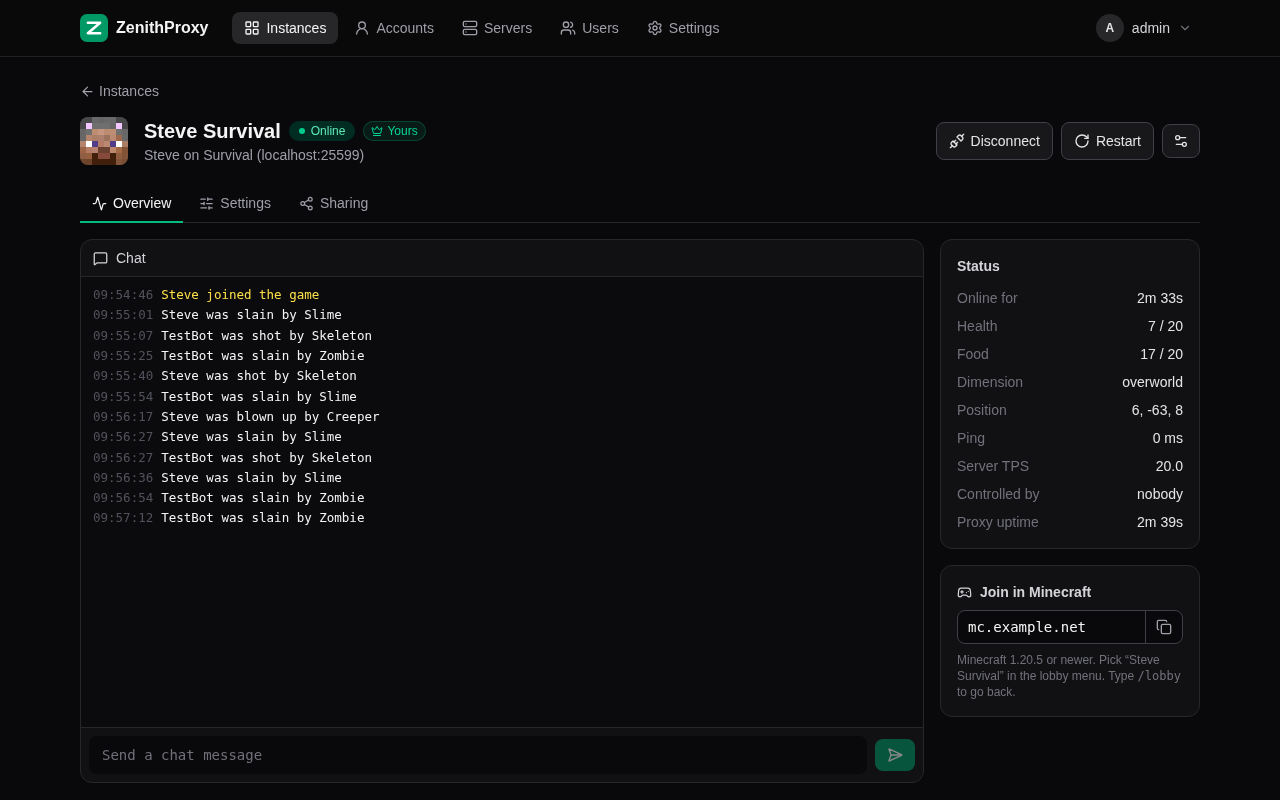
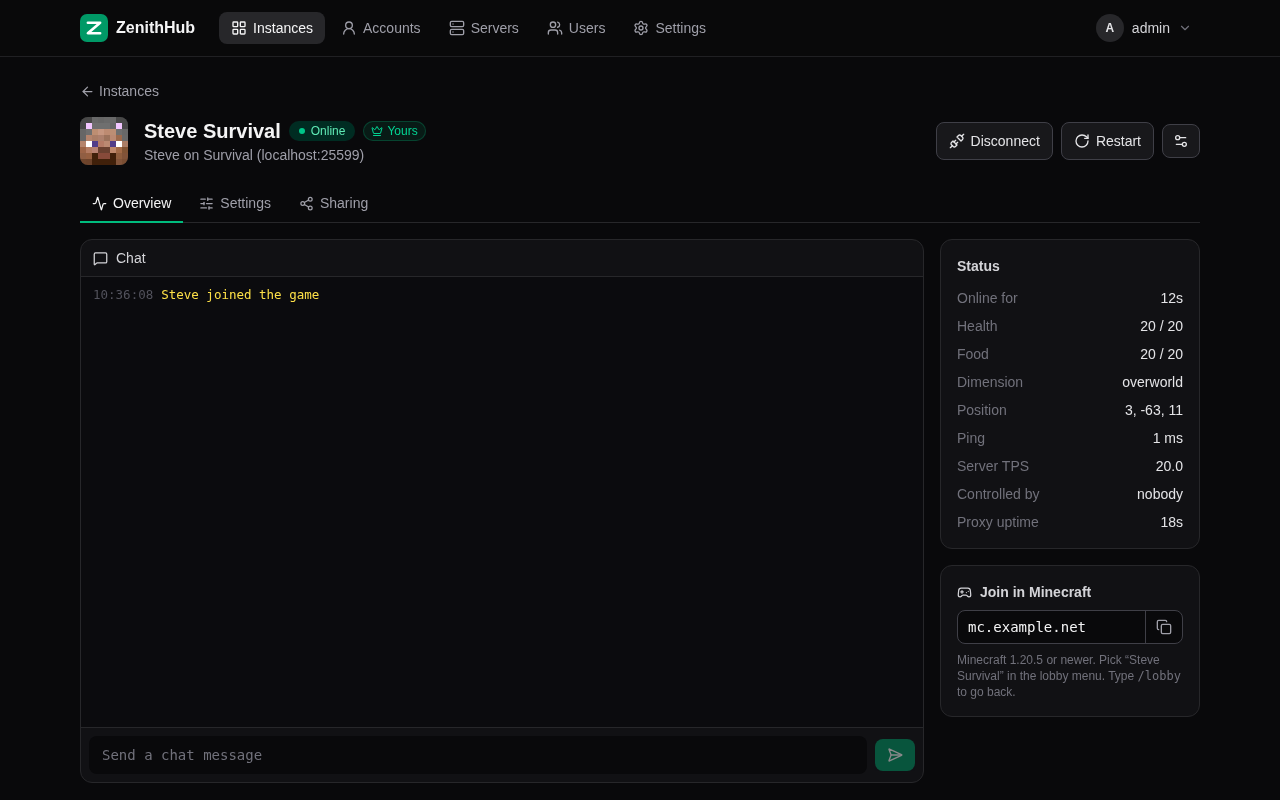
Rename the project to ZenithHub
Everything users see now says ZenithHub: the web UI, the lobby, the
Discord bot, the docs and the image (ghcr.io/jkramer5103/zenithhub).
The bot it runs is still ZenithProxy, and the code keeps the com.zenith
packages and ZENITH_* env vars so upstream merges stay easy.

Changed region(s): [[0.0625, 0.375, 0.2812, 0.6562], [0.125, 0.0, 0.5625, 0.0625], [0.875, 0.5, 0.9375, 0.5312]]

diff --git a/web/src/routes/+layout.svelte b/web/src/routes/+layout.svelte
@@ -49,7 +49,7 @@
 
 {#if loadError}
 	<div class="flex min-h-dvh items-center justify-center p-6 text-center text-sm text-zinc-400">
-		Can't reach the ZenithProxy manager: {loadError}
+		Can't reach ZenithHub: {loadError}
 	</div>
 {:else if !app.session}
 	<div class="min-h-dvh"></div>
@@ -59,7 +59,7 @@
 	<div class="flex min-h-dvh flex-col pb-[calc(4rem+env(safe-area-inset-bottom))] md:pb-0">
 		<header class="sticky top-0 z-30 border-b border-zinc-800/80 bg-zinc-950/85 backdrop-blur">
 			<div class="mx-auto flex h-14 max-w-6xl items-center gap-6 px-4">
-				<a href="/" class="flex items-center gap-2 font-semibold"><Logo /> ZenithProxy</a>
+				<a href="/" class="flex items-center gap-2 font-semibold"><Logo /> ZenithHub</a>
 				<nav class="hidden items-center gap-1 md:flex">
 					{#each nav as item}
 						<a

diff --git a/web/src/lib/components/DiscordLinkModal.svelte b/web/src/lib/components/DiscordLinkModal.svelte
@@ -57,7 +57,7 @@
 		<ol class="mt-4 space-y-3 text-sm">
 			<li class="flex gap-3">
 				<span class="flex size-6 shrink-0 items-center justify-center rounded-full bg-zinc-800 text-xs font-semibold">1</span>
-				<span class="pt-0.5 text-zinc-300">Open the Discord server the ZenithProxy bot is in.</span>
+				<span class="pt-0.5 text-zinc-300">Open the Discord server the ZenithHub bot is in.</span>
 			</li>
 			<li class="flex gap-3">
 				<span class="flex size-6 shrink-0 items-center justify-center rounded-full bg-zinc-800 text-xs font-semibold">2</span>

diff --git a/web/src/lib/components/settings/SettingRow.svelte b/web/src/lib/components/settings/SettingRow.svelte
@@ -160,7 +160,7 @@
 			{/if}
 		</div>
 		{#if forced}
-			<p class="mt-0.5 flex items-center gap-1 text-xs text-zinc-500"><Lock size={11} /> Managed by ZenithProxy</p>
+			<p class="mt-0.5 flex items-center gap-1 text-xs text-zinc-500"><Lock size={11} /> Managed by ZenithHub</p>
 		{:else if field.help || inheritedFrom}
 			<p class="mt-0.5 text-xs text-zinc-500">
 				<Highlight text={field.help ?? ''} {query} />{field.help && inheritedFrom ? ' · ' : ''}{inheritedFrom}

diff --git a/web/src/lib/components/settings/SettingsEditor.svelte b/web/src/lib/components/settings/SettingsEditor.svelte
@@ -211,7 +211,7 @@
 				{#if toggleForced}
 					<p class="mt-1 flex items-center gap-1 text-xs text-zinc-500">
 						<Lock size={11} />
-						{section.toggle === 'client.connectionProxy.enabled' ? 'Outbound proxies are turned off in the manager settings.' : 'Managed by ZenithProxy'}
+						{section.toggle === 'client.connectionProxy.enabled' ? 'Outbound proxies are turned off in the manager settings.' : 'Managed by ZenithHub'}
 					</p>
 				{/if}
 			</div>

diff --git a/web/src/lib/components/AuthScreen.svelte b/web/src/lib/components/AuthScreen.svelte
@@ -33,7 +33,7 @@
 	<div class="w-full max-w-sm">
 		<div class="mb-8 flex flex-col items-center gap-3 text-center">
 			<Logo size={48} />
-			<h1 class="text-xl font-semibold">{setup ? 'Welcome to ZenithProxy' : 'Sign in'}</h1>
+			<h1 class="text-xl font-semibold">{setup ? 'Welcome to ZenithHub' : 'Sign in'}</h1>
 			{#if setup}
 				<p class="text-sm text-zinc-400">Create the admin login. The admin can add accounts and sees everything.</p>
 			{/if}

diff --git a/web/src/routes/servers/[id]/+page.svelte b/web/src/routes/servers/[id]/+page.svelte
@@ -8,7 +8,7 @@
 	const server = $derived(app.overview?.servers.find((s) => s.id === id));
 </script>
 
-<svelte:head><title>{server?.name ?? 'Server'} settings · ZenithProxy</title></svelte:head>
+<svelte:head><title>{server?.name ?? 'Server'} settings · ZenithHub</title></svelte:head>
 
 <a href="/servers" class="mb-4 inline-flex items-center gap-1 text-sm text-zinc-400 hover:text-zinc-200"><ArrowLeft size={15} /> Servers</a>
 

diff --git a/web/src/app.html b/web/src/app.html
@@ -4,7 +4,7 @@
 		<meta charset="utf-8" />
 		<meta name="viewport" content="width=device-width, initial-scale=1, viewport-fit=cover" />
 		<meta name="theme-color" content="#09090b" />
-		<title>ZenithProxy</title>
+		<title>ZenithHub</title>
 		%sveltekit.head%
 	</head>
 	<body data-sveltekit-preload-data="hover" class="bg-zinc-950 text-zinc-100 antialiased">

diff --git a/web/src/routes/instances/[id]/+page.svelte b/web/src/routes/instances/[id]/+page.svelte
@@ -58,7 +58,7 @@
 	});
 </script>
 
-<svelte:head><title>{instance?.name ?? 'Instance'} · ZenithProxy</title></svelte:head>
+<svelte:head><title>{instance?.name ?? 'Instance'} · ZenithHub</title></svelte:head>
 
 {#if !instance || !runtime}
 	<div class="py-16 text-center text-sm text-zinc-400">

diff --git a/web/src/routes/+page.svelte b/web/src/routes/+page.svelte
@@ -28,7 +28,7 @@
 	});
 </script>
 
-<svelte:head><title>Instances · ZenithProxy</title></svelte:head>
+<svelte:head><title>Instances · ZenithHub</title></svelte:head>
 
 <div class="mb-6 flex flex-wrap items-center justify-between gap-3">
 	<div>

diff --git a/web/src/routes/accounts/+page.svelte b/web/src/routes/accounts/+page.svelte
@@ -39,7 +39,7 @@
 	}
 </script>
 
-<svelte:head><title>Accounts · ZenithProxy</title></svelte:head>
+<svelte:head><title>Accounts · ZenithHub</title></svelte:head>
 
 <div class="mb-6 flex flex-wrap items-center justify-between gap-3">
 	<div>

diff --git a/web/src/routes/servers/+page.svelte b/web/src/routes/servers/+page.svelte
@@ -24,7 +24,7 @@
 	}
 </script>
 
-<svelte:head><title>Servers · ZenithProxy</title></svelte:head>
+<svelte:head><title>Servers · ZenithHub</title></svelte:head>
 
 <div class="mb-6 flex flex-wrap items-center justify-between gap-3">
 	<div>

diff --git a/web/src/routes/users/+page.svelte b/web/src/routes/users/+page.svelte
@@ -23,7 +23,7 @@
 	}
 </script>
 
-<svelte:head><title>Users · ZenithProxy</title></svelte:head>
+<svelte:head><title>Users · ZenithHub</title></svelte:head>
 
 <div class="mb-6 flex flex-wrap items-center justify-between gap-3">
 	<div>
